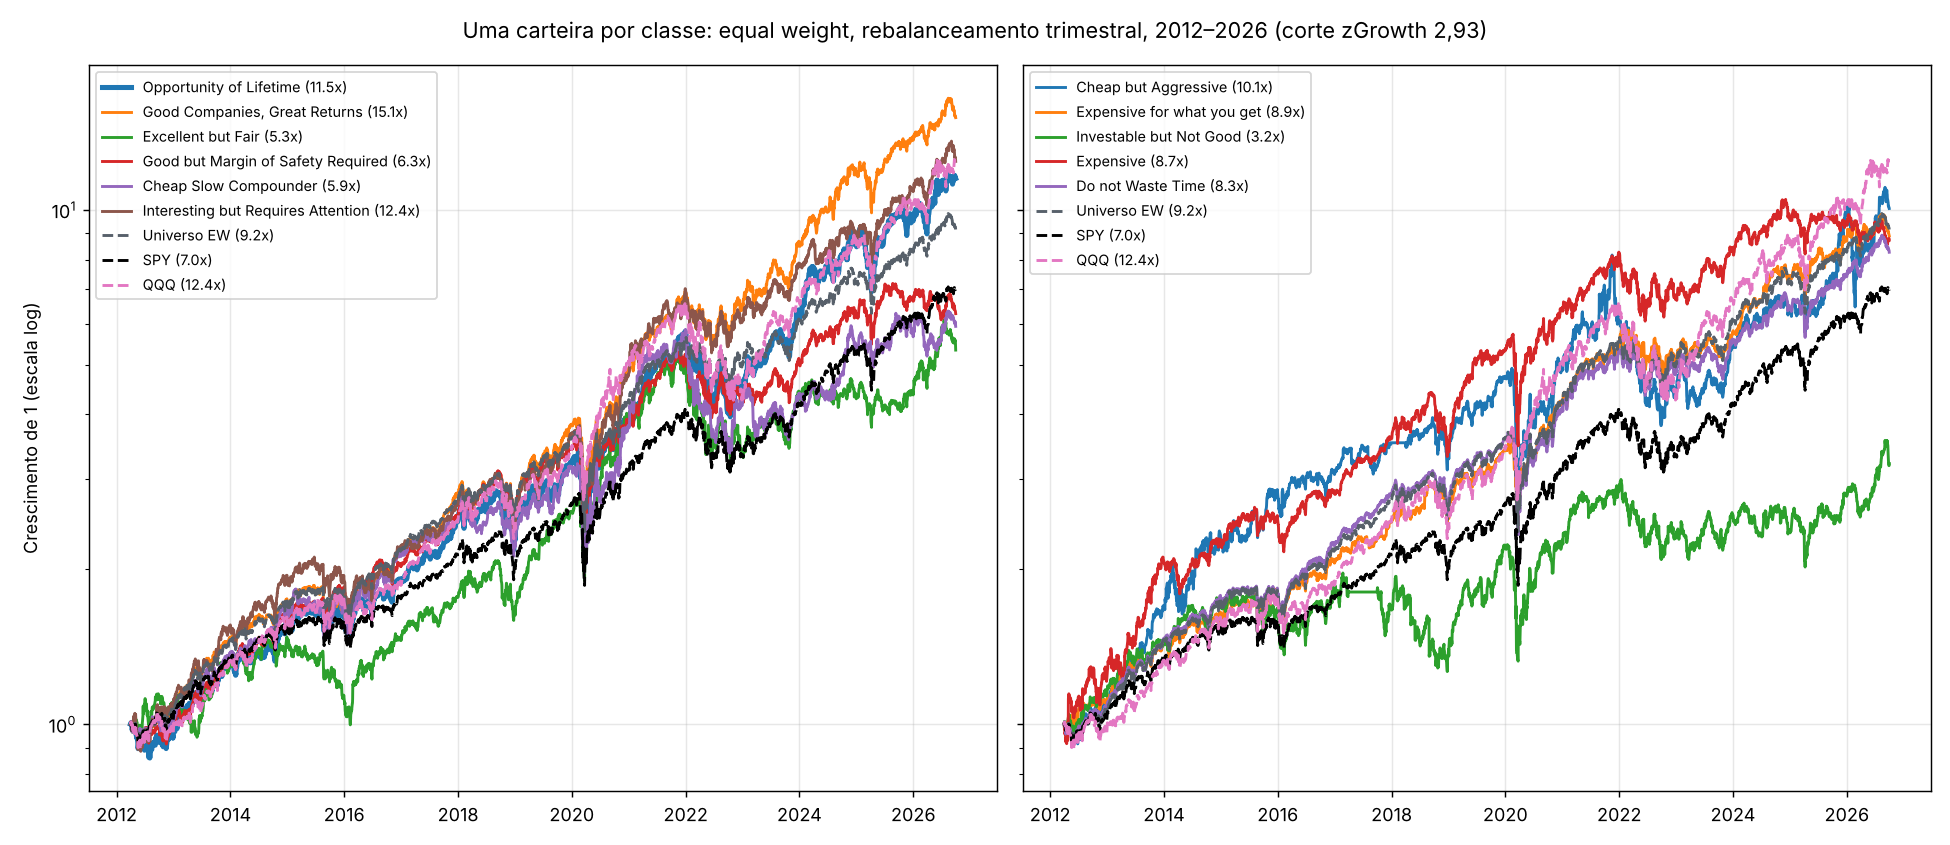
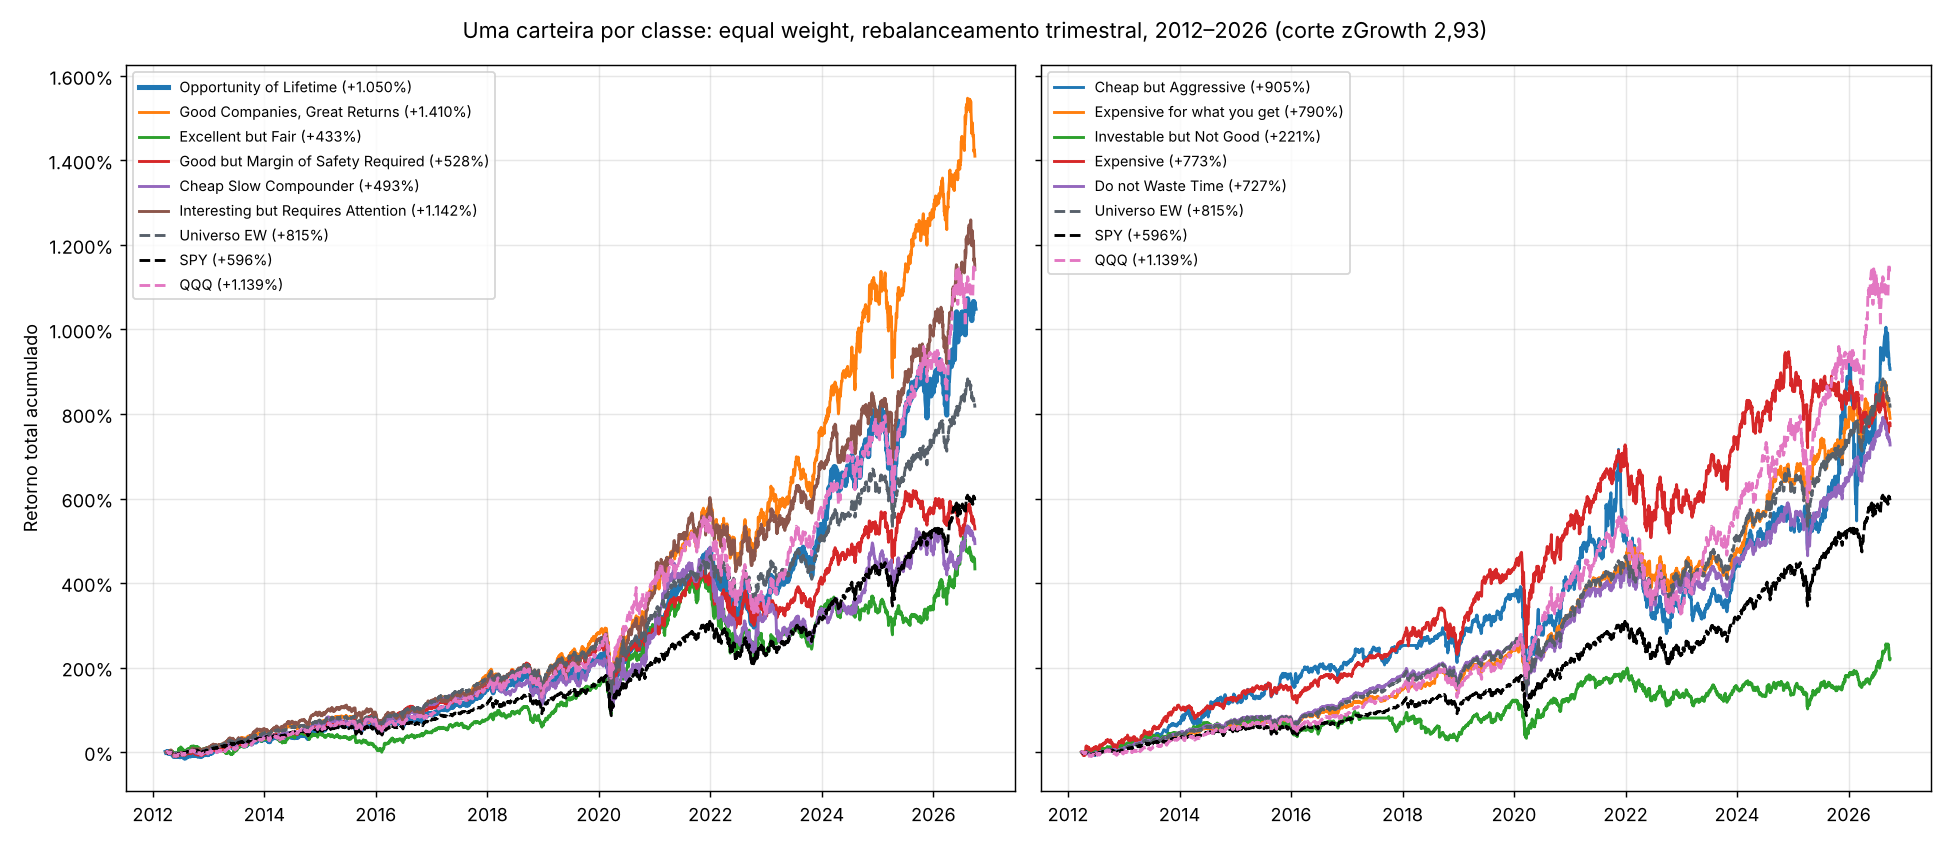
backtest: graficos em retorno total acumulado (escala linear)
Claude-Session: https://claude.ai/code/session_0163Rqzt5kBig7h4xGh44EtX

diff --git a/price_tracker/backtest/summarize.py b/price_tracker/backtest/summarize.py
@@ -1,7 +1,7 @@
 """Gera tabelas (markdown) e graficos do backtest por classe. Uso: python3 backtest/summarize.py"""
 import pathlib
 import numpy as np, pandas as pd
-import matplotlib; matplotlib.use('Agg'); import matplotlib.pyplot as plt
+import matplotlib; matplotlib.use('Agg'); import matplotlib.pyplot as plt, matplotlib.ticker
 
 D = pathlib.Path(__file__).parent / 'data'
 OUT = pathlib.Path(__file__).parent
@@ -47,11 +47,11 @@ def chart(cut):
     for ax, grp in zip(axes, groups):
         for i, c in enumerate(grp):
             lw = 2.8 if c == 'Opportunity of Lifetime' else 1.6
-            ax.plot(nav.index, nav[c], color=colors[i], lw=lw, label=f'{c} ({nav[c].iloc[-1]:.1f}x)')
+            ax.plot(nav.index, (nav[c] - 1) * 100, color=colors[i], lw=lw, label=f'{c} (' + f'{(nav[c].iloc[-1] - 1) * 100:+,.0f}%'.replace(',', '.') + ')')
         for c, col in (('Universo EW', '#57606a'), ('SPY', '#000000'), ('QQQ', '#e377c2')):
-            ax.plot(nav.index, nav[c], color=col, lw=1.6, ls='--', label=f'{c} ({nav[c].iloc[-1]:.1f}x)')
-        ax.set_yscale('log'); ax.grid(alpha=.3); ax.legend(fontsize=8, loc='upper left')
-    axes[0].set_ylabel('Crescimento de 1 (escala log)')
+            ax.plot(nav.index, (nav[c] - 1) * 100, color=col, lw=1.6, ls='--', label=f'{c} (' + f'{(nav[c].iloc[-1] - 1) * 100:+,.0f}%'.replace(',', '.') + ')')
+        ax.grid(alpha=.3); ax.yaxis.set_major_formatter(matplotlib.ticker.FuncFormatter(lambda v, _: f'{v:,.0f}%'.replace(',', '.'))); ax.legend(fontsize=8, loc='upper left')
+    axes[0].set_ylabel('Retorno total acumulado')
     fig.suptitle(f'Uma carteira por classe: equal weight, rebalanceamento trimestral, 2012–2026 (corte zGrowth {cut[2:].replace(".", ",")})')
     fig.tight_layout(); fig.savefig(OUT / f'classes_{cut}.png'); plt.close(fig)
 
